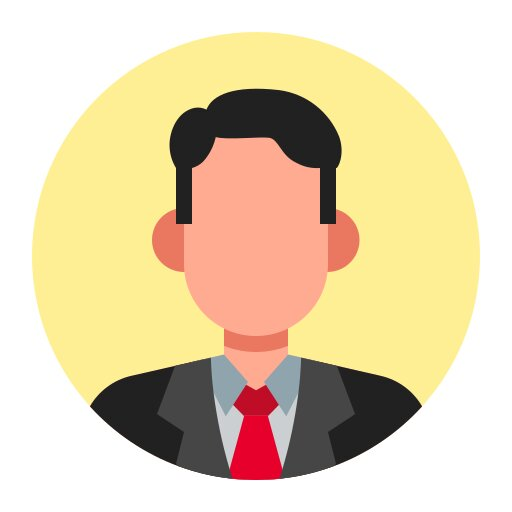
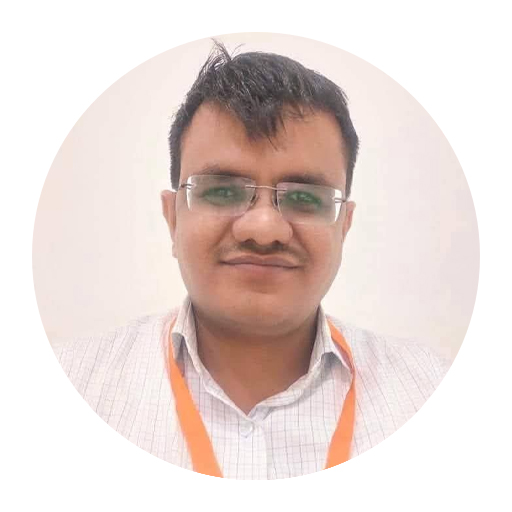
Add committee member photo

diff --git a/src/data/committee.ts b/src/data/committee.ts
@@ -271,7 +271,7 @@ export const committeeMembers: CommitteeMember[] = [
   {
     id: 'm20',
     name: 'Naresh Chaudhary, Dabhal',
-    nameHi: 'श्री नरेश चौधरी, डाभल',
+    nameHi: 'श्री नरेश चौधरी, डभाल',
     responsibility: 'Match-Day Operations',
     responsibilityHi: 'मैच-दिवस संचालन',
     description:
@@ -283,7 +283,7 @@ export const committeeMembers: CommitteeMember[] = [
 
   {
     id: 'm21',
-    name: 'Sengharam (Surendra) Chaudhary, Golasan',
+    name: 'Sendha Ram (Surendra) Chaudhary, Golasan',
     nameHi: 'श्री सेंघाराम (सुरेंद्र) चौधरी, गोलासन',
     responsibility: 'Online Team Registration',
     responsibilityHi: 'ऑनलाइन टीम पंजीकरण',
@@ -323,7 +323,7 @@ export const committeeMembers: CommitteeMember[] = [
   {
     id: 'm24',
     name: 'Devraj Chaudhary, Dabhal',
-    nameHi: 'श्री देवराज चौधरी, डाभल',
+    nameHi: 'श्री देवराज चौधरी, डभाल',
     responsibility: 'Medical & First Aid',
     responsibilityHi: 'चिकित्सा एवं प्राथमिक उपचार',
     description:
@@ -336,7 +336,7 @@ export const committeeMembers: CommitteeMember[] = [
   {
     id: 'm25',
     name: 'Karsan Chaudhary, Dabhal',
-    nameHi: 'श्री करसन चौधरी, डाभल',
+    nameHi: 'श्री करसन चौधरी, डभाल',
     responsibility: 'Scoring & Records Management Head',
     responsibilityHi: 'स्कोरिंग एवं रिकॉर्ड प्रबंधन प्रमुख',
     description:
@@ -362,7 +362,7 @@ export const committeeMembers: CommitteeMember[] = [
   {
     id: 'm27',
     name: 'Narendra Chaudhary, Pathmeda',
-    nameHi: 'श्री नरेंद्र चौधरी, पाथमेड़ा',
+    nameHi: 'श्री नरेंद्र चौधरी, पथमेड़ा',
     responsibility: 'Ground & Pitch Management',
     responsibilityHi: 'ग्राउंड एवं पिच व्यवस्था',
     description:
